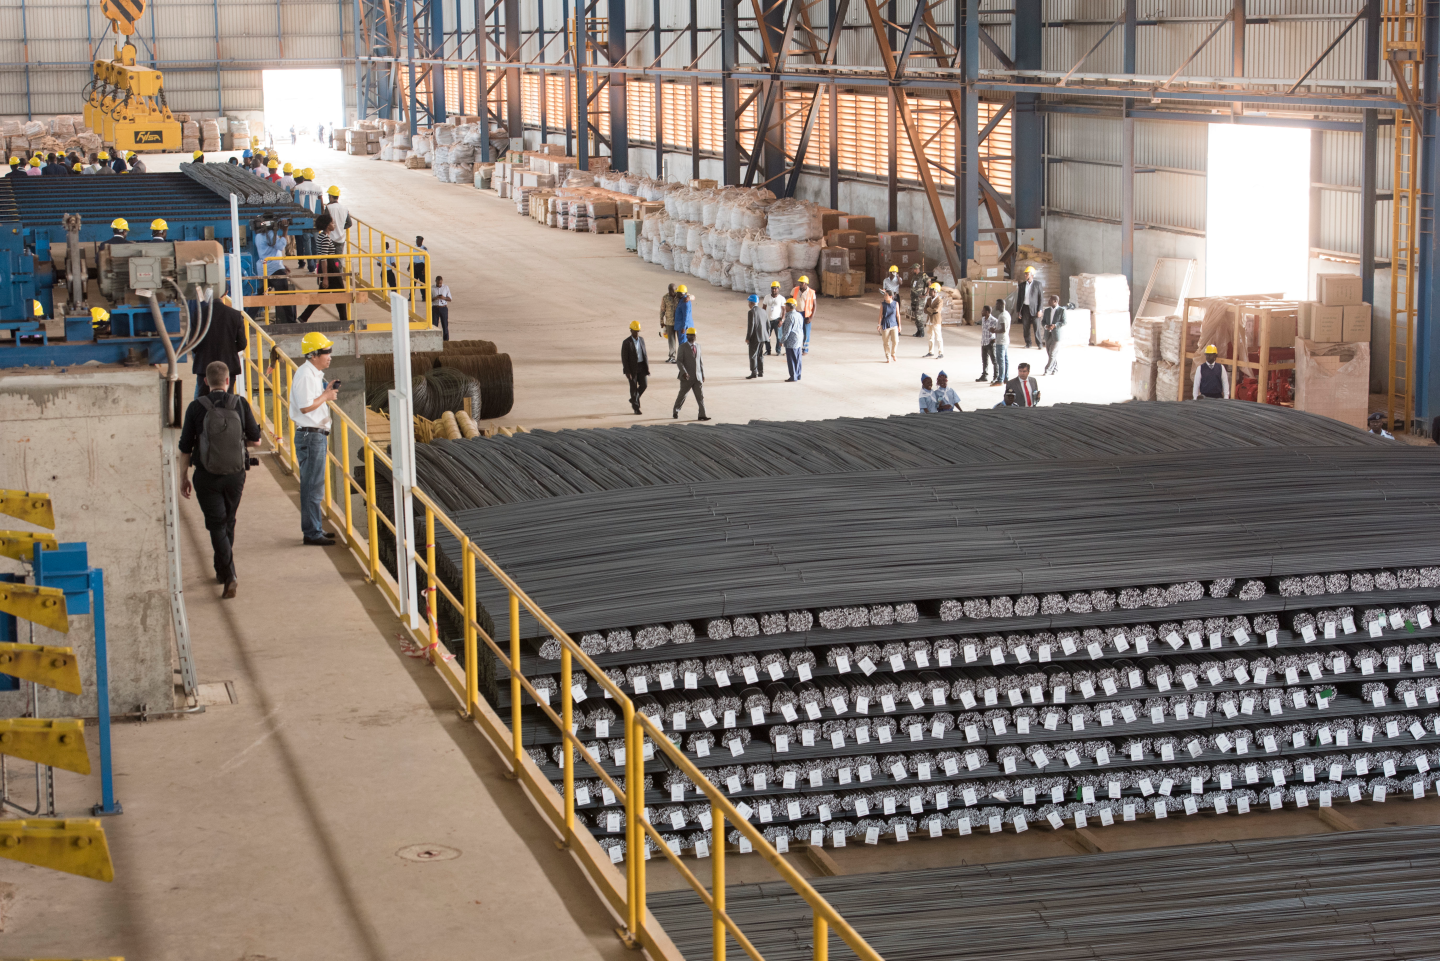
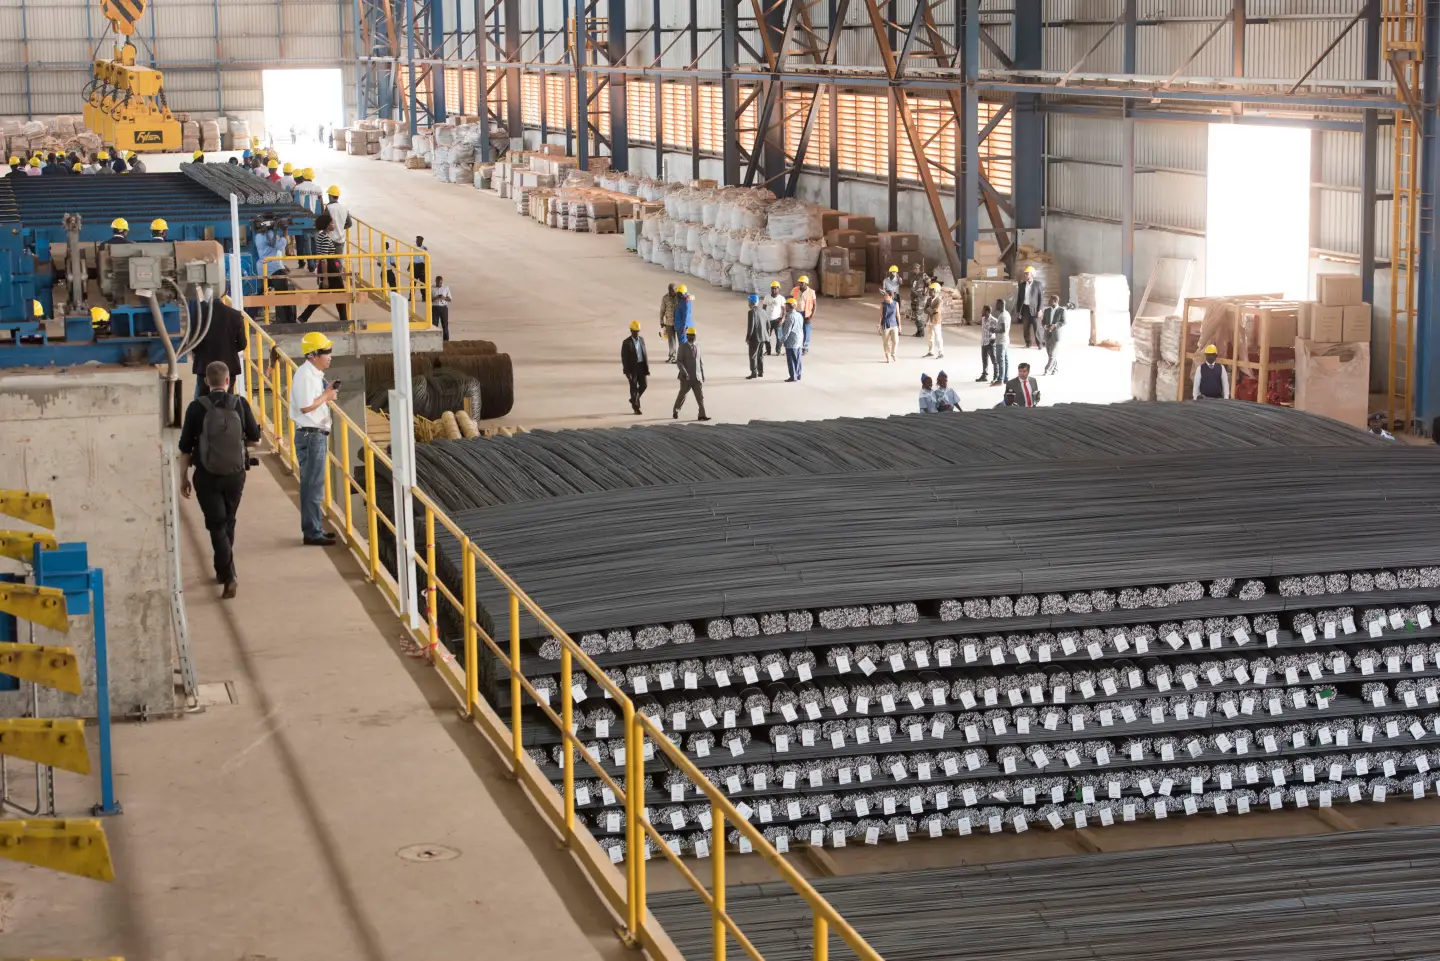
lkjj

Changed region(s): [[0.25, 0.2497, 0.2812, 0.281]]

diff --git a/sobrenos.html b/sobrenos.html
@@ -475,7 +475,7 @@
           <div class="row"><div class="col-12">
             <div class="h6-project-inner">
               <div class="project-item h6-project-item">
-                <div class="project-item-inner h6-project-item-inner" data-bg-image="images/projects/shoppingpopular.JPG">
+                <div class="project-item-inner h6-project-item-inner" data-bg-image="images/projects/shoppingpopular.webp">
                   <div class="project-content">
                     <span class="categories"><a href="portfolio-details.html">Imobiliário</a></span>
                     <div class="project-text">
@@ -486,7 +486,7 @@
                 </div>
               </div>
               <div class="project-item h6-project-item">
-                <div class="project-item-inner h6-project-item-inner" data-bg-image="images/projects/kuditemo.jpg">
+                <div class="project-item-inner h6-project-item-inner" data-bg-image="images/projects/kuditemo.webp">
                   <div class="project-content">
                     <span class="categories"><a href="portfolio-details.html">Habitação</a></span>
                     <div class="project-text">
@@ -508,7 +508,7 @@
                 </div>
               </div>
               <div class="project-item h6-project-item">
-                <div class="project-item-inner h6-project-item-inner" data-bg-image="images/projects/jardim.JPG">
+                <div class="project-item-inner h6-project-item-inner" data-bg-image="images/projects/jardim.webp">
                   <div class="project-content">
                     <span class="categories"><a href="portfolio-details.html">Urbanismo</a></span>
                     <div class="project-text">
@@ -519,7 +519,7 @@
                 </div>
               </div>
               <div class="project-item h6-project-item">
-                <div class="project-item-inner h6-project-item-inner" data-bg-image="images/projects/cana.jpg">
+                <div class="project-item-inner h6-project-item-inner" data-bg-image="images/projects/cana.webp">
                   <div class="project-content">
                     <span class="categories"><a href="portfolio-details.html">Construção</a></span>
                     <div class="project-text">
@@ -530,7 +530,7 @@
                 </div>
               </div>
               <div class="project-item h6-project-item">
-                <div class="project-item-inner h6-project-item-inner" data-bg-image="images/projects/obras.jpg">
+                <div class="project-item-inner h6-project-item-inner" data-bg-image="images/projects/obras.webp">
                   <div class="project-content">
                     <span class="categories"><a href="portfolio-details.html">Indústria</a></span>
                     <div class="project-text">

diff --git a/responsiblidade.html b/responsiblidade.html
@@ -270,7 +270,7 @@
     <div class="space-for-header"></div>
 
     <!-- HERO - Inspiracional (semelhante ao de Carreiras) -->
-    <section class="tj-page-header section-gap-x" data-bg-image="images/responsabilidade/DHS_3383.JPG">
+    <section class="tj-page-header section-gap-x" data-bg-image="images/responsabilidade/DHS_3383.webp">
       <div class="container">
      <!-- CORREÇÃO: Fechar as divs adequadamente -->
 <div class="row">
@@ -395,7 +395,7 @@
           <div class="col-12">
             <div class="project-area tj-arrange-container">
               <div class="project-item tj-arrange-item">
-                <div class="project-img" data-bg-image="images/responsabilidade/DHS_3193.JPG"></div>
+                <div class="project-img" data-bg-image="images/responsabilidade/DHS_3193.webp"></div>
                 <div class="project-content">
                   <span class="categories"><a href="#">Educação</a></span>
                   <div class="project-text">
@@ -413,7 +413,7 @@
                 </div>
               </div>
               <div class="project-item tj-arrange-item">
-                <div class="project-img" data-bg-image="images/responsabilidade/one.jpg"></div>
+                <div class="project-img" data-bg-image="images/responsabilidade/one.webp"></div>
                 <div class="project-content">
                   <span class="categories"><a href="#">Empregabilidade</a></span>
                   <div class="project-text">
@@ -422,7 +422,7 @@
                 </div>
               </div>
               <div class="project-item tj-arrange-item">
-                <div class="project-img" data-bg-image="images/responsabilidade/DHS_3074.JPG"></div>
+                <div class="project-img" data-bg-image="images/responsabilidade/DHS_3074.webp"></div>
                 <div class="project-content">
                   <span class="categories"><a href="#">Sustentabilidade</a></span>
                   <div class="project-text">
@@ -550,7 +550,7 @@
           <div class="col-lg-5">
             <div class="faq-img-area">
               <div class="faq-img overflow-hidden">
-                <img src="images/responsabilidade/DHS_3114.JPG" alt="Projeto social H&S">
+                <img src="images/responsabilidade/DHS_3114.webp" alt="Projeto social H&S">
                 <h2 class="title">Juntos geramos impacto.</h2>
               </div>
               <div class="box-area">
@@ -580,7 +580,7 @@
                 </a>
               </div>
             </div>
-            <div class="cta-img"><img src="images/responsabilidade/DHS_3121.JPG" alt=""></div>
+            <div class="cta-img"><img src="images/responsabilidade/DHS_3121.webp" alt=""></div>
           </div>
         </div></div>
       </div>

diff --git a/noticias.html b/noticias.html
@@ -280,7 +280,7 @@
         <div class="space-for-header"></div>
 
         <!-- start: Breadcrumb Section -->
-        <section class="tj-page-header section-gap-x" data-bg-image="images/noticias/news1.JPG">
+        <section class="tj-page-header section-gap-x" data-bg-image="images/noticias/news1.webp">
           <div class="container">
             <div class="row">
               <div class="col-lg-12">
@@ -310,7 +310,7 @@
                   <!-- Notícia 1 -->
                   <article class="blog-item wow fadeInUp" data-wow-delay=".1s">
                     <div class="blog-thumb">
-                      <a href="noticia-detalhe.html"><img src="images/noticias/DSC00962.JPG" alt="Shopping Popular"></a>
+                      <a href="noticia-detalhe.html"><img src="images/noticias/DSC00962.webp" alt="Shopping Popular"></a>
                       <div class="blog-date">
                         <span class="date">15</span>
                         <span class="month">JAN</span>
@@ -333,7 +333,7 @@
                   <!-- Notícia 2 -->
                   <article class="blog-item wow fadeInUp" data-wow-delay=".3s">
                     <div class="blog-thumb">
-                      <a href="noticia-detalhe.html"><img src="images/noticias/IMG_5611.JPG" alt="Vila Kuditemo"></a>
+                      <a href="noticia-detalhe.html"><img src="images/noticias/IMG_5611.webp" alt="Vila Kuditemo"></a>
                       <div class="blog-date">
                         <span class="date">22</span>
                         <span class="month">DEZ</span>
@@ -356,7 +356,7 @@
                   <!-- Notícia 3 -->
                   <article class="blog-item wow fadeInUp" data-wow-delay=".5s">
                     <div class="blog-thumb">
-                      <a href="noticia-detalhe.html"><img src="images/noticias/DSC05931.JPG" alt="Orlando Residencial"></a>
+                      <a href="noticia-detalhe.html"><img src="images/noticias/DSC05931.webp" alt="Orlando Residencial"></a>
                       <div class="blog-date">
                         <span class="date">05</span>
                         <span class="month">NOV</span>

diff --git a/area-imobiliario.html b/area-imobiliario.html
@@ -277,7 +277,7 @@
         <div class="space-for-header"></div>
 
         <!-- Hero / Breadcrumb -->
-        <section class="tj-page-header section-gap-x" data-bg-image="images/projects/jardim.JPG">
+        <section class="tj-page-header section-gap-x" data-bg-image="images/projects/jardim.webp">
           <div class="container">
             <div class="row">
               <div class="col-lg-12">
@@ -303,7 +303,7 @@
               <div class="col-lg-8">
                 <div class="post-details-wrapper">
                   <div class="blog-images wow fadeInUp">
-                    <img src="images/imobiliaro/_DSC0247.JPG" alt="Imobiliário H&S">
+                    <img src="images/imobiliaro/_DSC0247.webp" alt="Imobiliário H&S">
                   </div>
                   <h2 class="title title-anim">Construindo Espaços para Viver, Trabalhar e Prosperar</h2>
                   <div class="blog-text">
@@ -332,12 +332,12 @@
                       <div class="row">
                         <div class="col-sm-6">
                           <div class="image-box wow fadeInUp">
-                            <img src="images/imobiliaro/DSC05914.JPG" alt="Condomínio H&S">
+                            <img src="images/imobiliaro/DSC05914.webp" alt="Condomínio H&S">
                           </div>
                         </div>
                         <div class="col-sm-6">
                           <div class="image-box wow fadeInUp">
-                            <img src="images/imobiliaro/DSC01003.JPG" alt="Shopping Popular">
+                            <img src="images/imobiliaro/DSC01003.webp" alt="Shopping Popular">
                           </div>
                         </div>
                       </div>

diff --git a/area-construcao.html b/area-construcao.html
@@ -279,7 +279,7 @@
         <div class="space-for-header"></div>
 
         <!-- start: Breadcrumb / Hero -->
-        <section class="tj-page-header section-gap-x" data-bg-image="images/construcao/P1020049.JPG">
+        <section class="tj-page-header section-gap-x" data-bg-image="images/construcao/P1020049.webp">
           <div class="container">
             <div class="row">
               <div class="col-lg-12">
@@ -333,12 +333,12 @@
                       <div class="row">
                         <div class="col-sm-6">
                           <div class="image-box wow fadeInUp" data-wow-delay=".2s">
-                            <img src="images/construcao/100_6838.JPG" alt="Condomínios H&S">
+                            <img src="images/construcao/100_6838.webp" alt="Condomínios H&S">
                           </div>
                         </div>
                         <div class="col-sm-6">
                           <div class="image-box wow fadeInUp" data-wow-delay=".3s">
-                            <img src="images/construcao/100_6845.JPG" alt="Obras Públicas">
+                            <img src="images/construcao/100_6845.webp" alt="Obras Públicas">
                           </div>
                         </div>
                       </div>

diff --git a/area-industrial.html b/area-industrial.html
@@ -274,7 +274,7 @@
         <div class="space-for-header"></div>
 
         <!-- start: Breadcrumb / Hero -->
-        <section class="tj-page-header section-gap-x" data-bg-image="images/industrial/hero.jpg">
+        <section class="tj-page-header section-gap-x" data-bg-image="images/industrial/hero.webp">
           <div class="container">
             <div class="row">
               <div class="col-lg-12">
@@ -328,7 +328,7 @@
                       <div class="row">
                         <div class="col-sm-6">
                           <div class="image-box wow fadeInUp" data-wow-delay=".2s">
-                            <img src="images/industrial/20150624_141728.jpg" alt="Linha de Produção">
+                            <img src="images/industrial/20150624_141728.webp" alt="Linha de Produção">
                           </div>
                         </div>
                         <div class="col-sm-6">

diff --git a/index.html b/index.html
@@ -795,7 +795,7 @@
               </div>
               <span class="h9-service-nav"><i class="tji-arrow-right-long"></i></span>
             </div>
-            <div class="service-img"><img  loading="lazy" src="images/DHS_3372.JPG" alt="Projeto Nascer Livre para Brilhar"></div>
+            <div class="service-img"><img  loading="lazy" src="images/DHS_3372.webp" alt="Projeto Nascer Livre para Brilhar"></div>
           </div>
 
           <!-- 2023 -->
@@ -810,7 +810,7 @@
               </div>
               <span class="h9-service-nav"><i class="tji-arrow-right-long"></i></span>
             </div>
-            <div class="service-img"><img  loading="lazy" src="images/DSC01003.jpg" alt="Shopping Popular — 1ª fase"></div>
+            <div class="service-img"><img  loading="lazy" src="images/DSC01003.webp" alt="Shopping Popular — 1ª fase"></div>
           </div>
 
           <!-- 2024–2025 -->

diff --git a/contacto.html b/contacto.html
@@ -282,7 +282,7 @@
       <main id="primary" class="site-main">
         <div class="space-for-header"></div>
         <!-- start: Breadcrumb Section -->
-        <section class="tj-page-header section-gap-x" data-bg-image="images/DSC_0250.JPG">
+        <section class="tj-page-header section-gap-x" data-bg-image="images/DSC_0250.webp">
   <div class="container text-center">
         <h1 class="tj-page-title">Contacto</h1>
         <div class="tj-page-link">
@@ -397,7 +397,7 @@
             </a>
           </div>
           <div class="cta-img">
-            <img src="images/DSC_0296.JPG" alt="">
+            <img src="images/DSC_0296.webp" alt="">
           </div>
         </div>
       </div>

diff --git a/carreiras.html b/carreiras.html
@@ -274,7 +274,7 @@
   <main id="primary" class="site-main">
 
     <!-- HERO (adaptado para Carreiras) -->
-    <section class="tj-page-header " data-bg-image="images/carreiera/DSC_0297.JPG">
+    <section class="tj-page-header " data-bg-image="images/carreiera/DSC_0297.webp">
       <div class="container">
         <div class="row"><div class="col-12">
           <div class="tj-page-header-content text-center">
